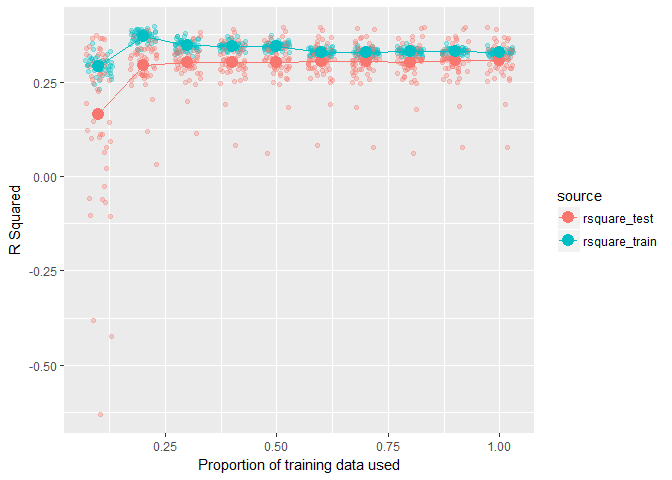
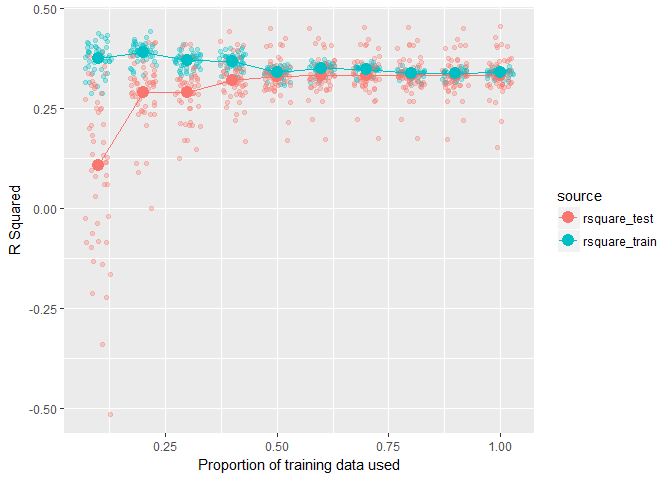
simply default if .f is missing in cross validation

diff --git a/README.md b/README.md
@@ -331,16 +331,16 @@ results %>% select(cv_pairs.id, train_p, contains("rsquare"))
 #> # A tibble: 500 × 4
 #>    cv_pairs.id train_p rsquare_train rsquare_test
 #>          <chr>   <dbl>         <dbl>        <dbl>
-#> 1           01     0.1     0.2674732    0.3395830
-#> 2           01     0.2     0.3811547    0.3297425
-#> 3           01     0.3     0.3518045    0.3064571
-#> 4           01     0.4     0.3480185    0.3073718
-#> 5           01     0.5     0.3424334    0.3069495
-#> 6           01     0.6     0.3253616    0.3067952
-#> 7           01     0.7     0.3267840    0.3104365
-#> 8           01     0.8     0.3274817    0.3105798
-#> 9           01     0.9     0.3303467    0.3103669
-#> 10          01     1.0     0.3284875    0.3110813
+#> 1           01     0.1     0.3668098    0.3539125
+#> 2           01     0.2     0.4067336    0.3532530
+#> 3           01     0.3     0.3807700    0.3502037
+#> 4           01     0.4     0.3748297    0.3432767
+#> 5           01     0.5     0.3486239    0.3374103
+#> 6           01     0.6     0.3620430    0.3309106
+#> 7           01     0.7     0.3571253    0.3277946
+#> 8           01     0.8     0.3444167    0.3301699
+#> 9           01     0.9     0.3410921    0.3315772
+#> 10          01     1.0     0.3406082    0.3336214
 #> # ... with 490 more rows
 ```
 
